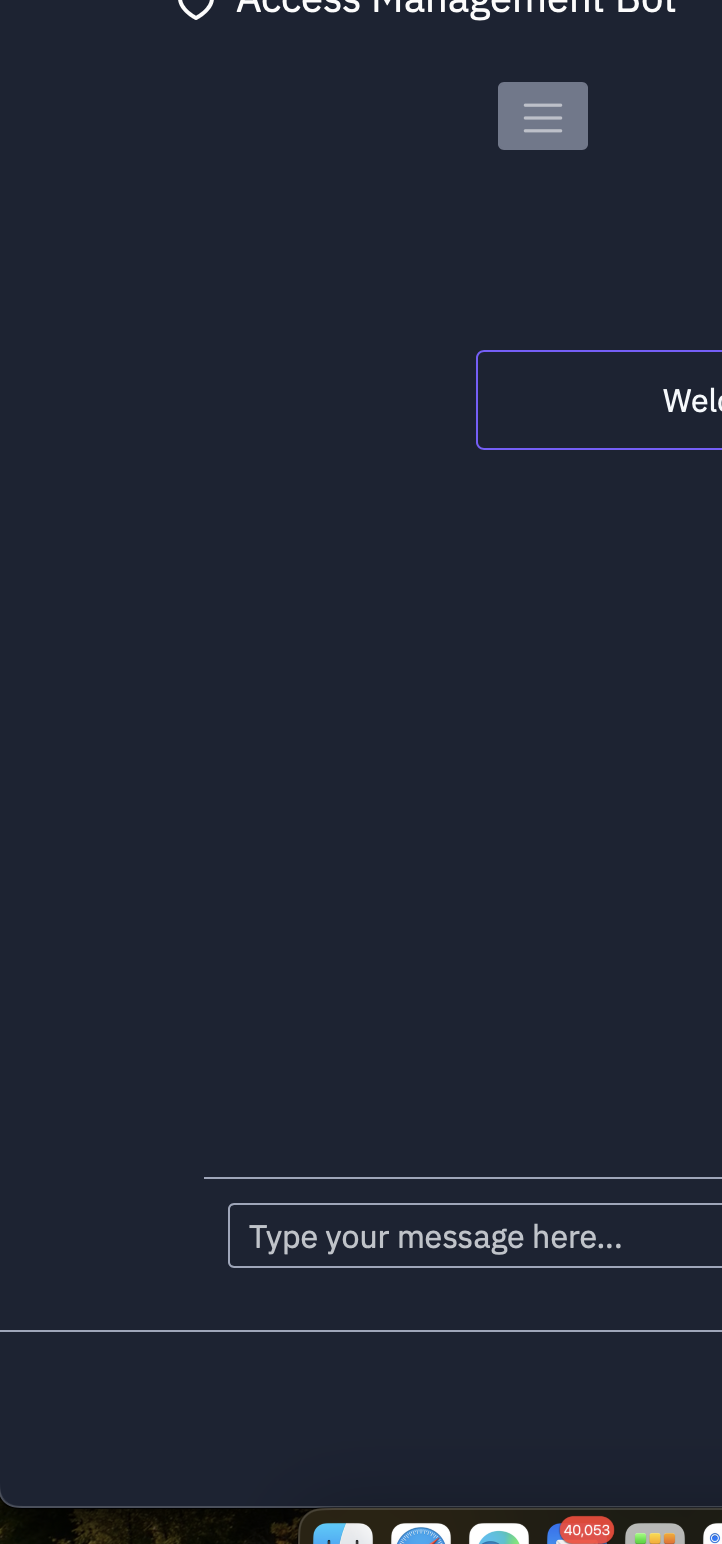
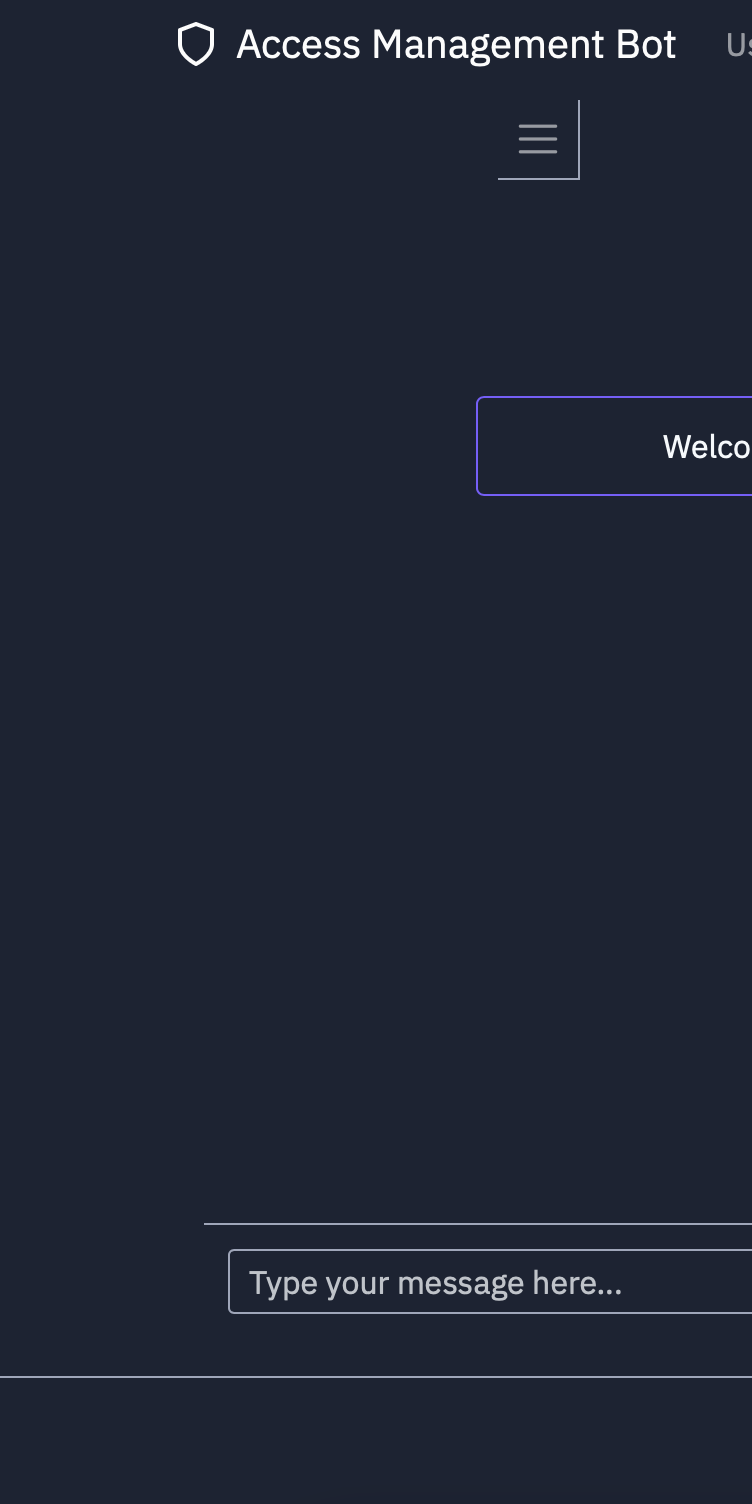
Agent query: Is the sidebar toggle button now fixed in the top left corner and properly styled with the dark theme?

diff --git a/static/css/custom.css b/static/css/custom.css
@@ -146,12 +146,13 @@
 
 #sidebarCollapse {
     position: fixed;
-    left: 250px;
+    left: 0;
     top: 56px;
     z-index: 999;
     transition: all 0.3s;
     border-radius: 0;
     height: 40px;
+    width: 40px;
     display: flex;
     align-items: center;
     justify-content: center;
@@ -163,9 +164,9 @@
     border-right: 1px solid var(--bs-secondary);
 }
 
+/* Remove the left position change when sidebar is active */
 #content.active #sidebarCollapse {
     left: 0;
-    border-right: none;
 }
 
 /* Footer styles */
